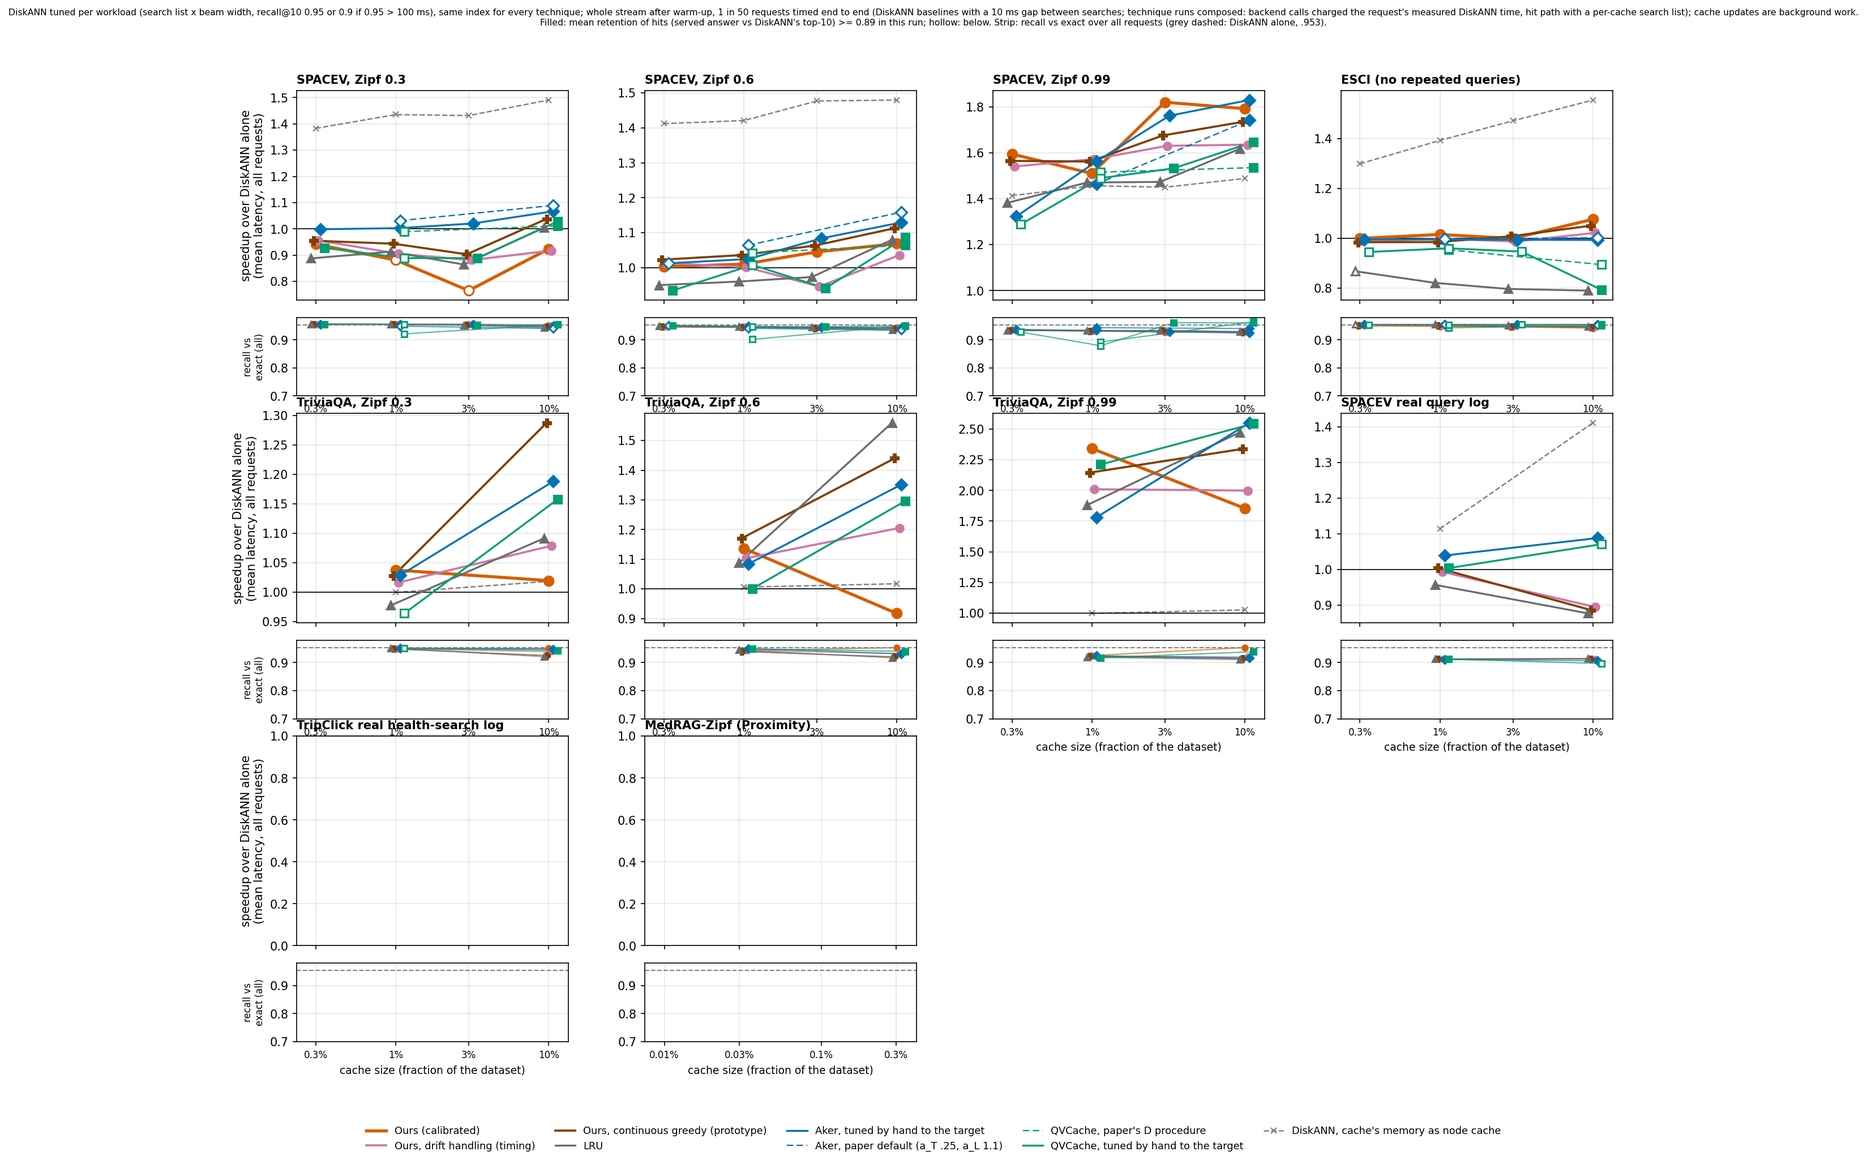
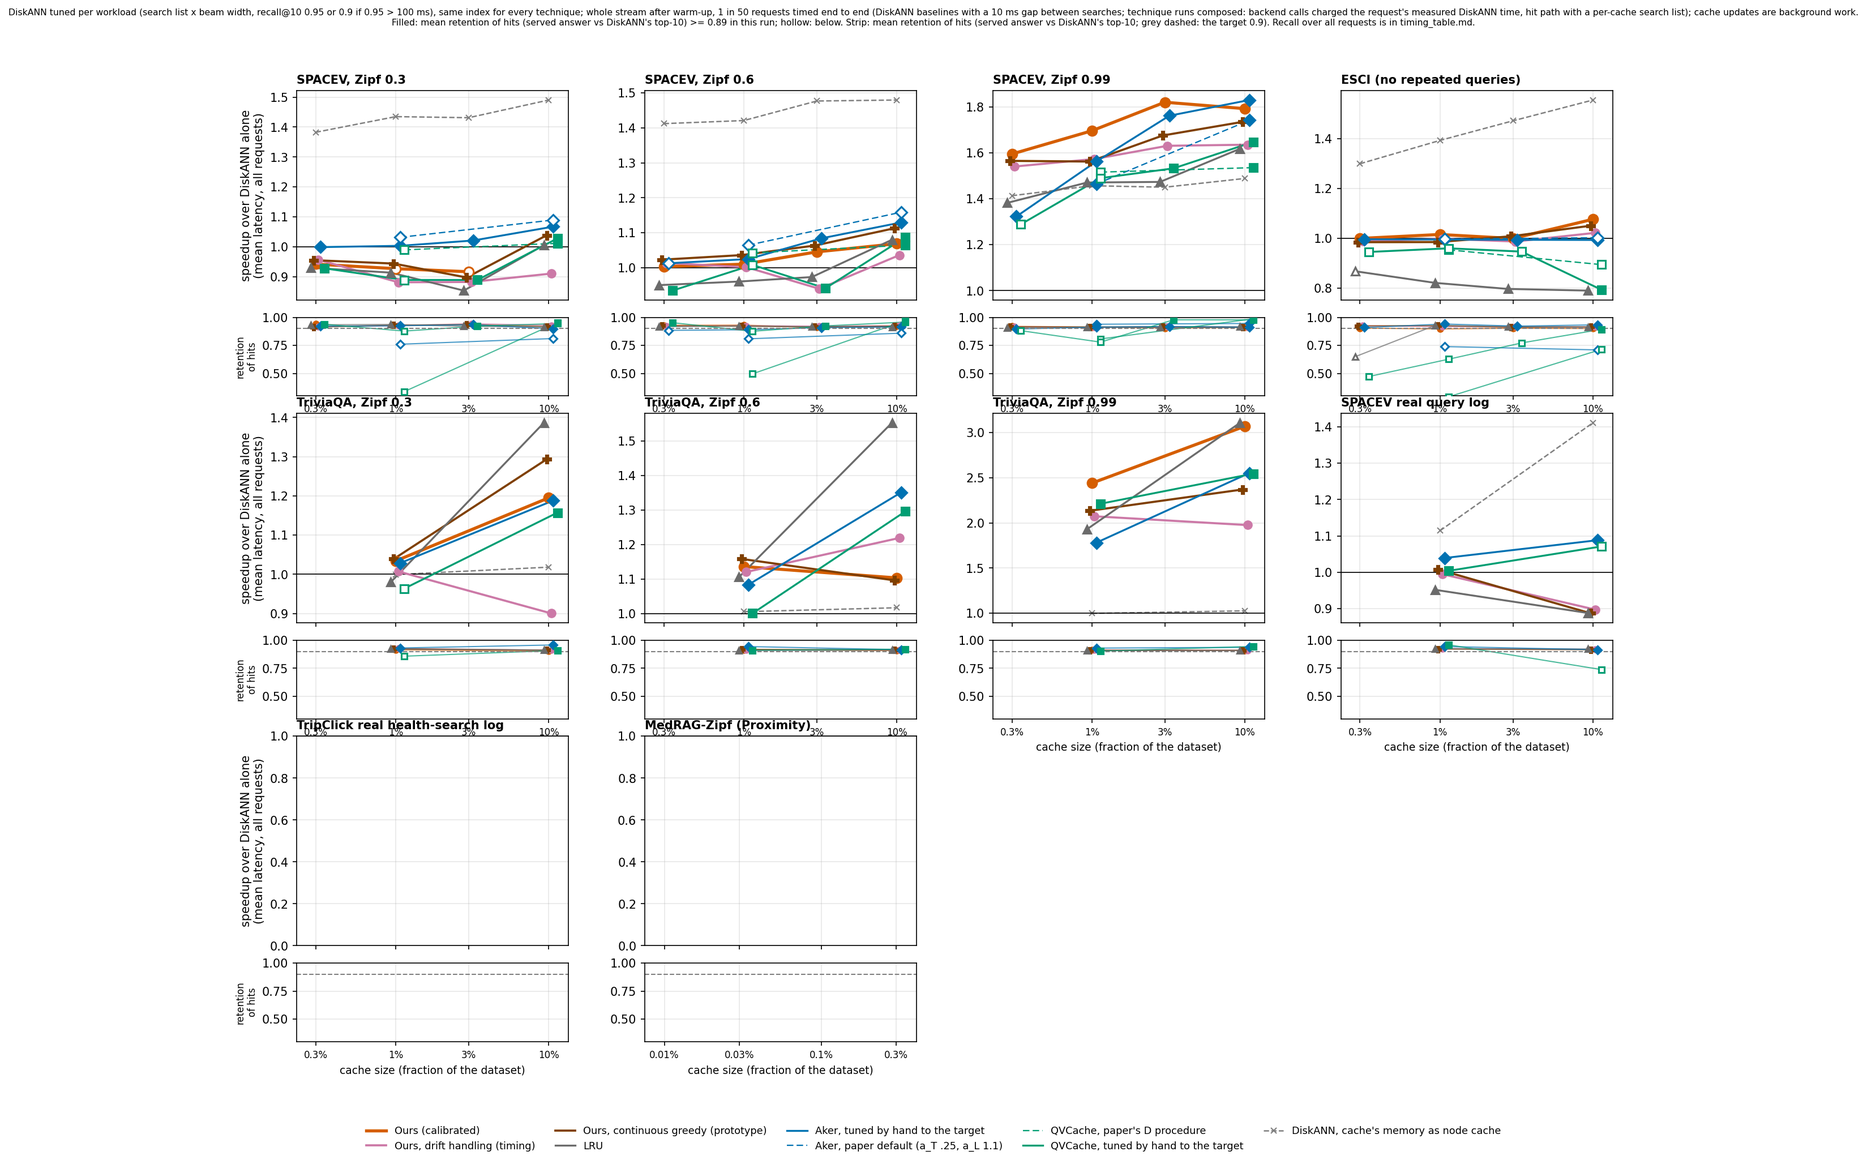
Timing plot: strip shows retention of hits vs the 0.9 target

diff --git a/simulations/approximate_hits/plot_timing.py b/simulations/approximate_hits/plot_timing.py
@@ -115,7 +115,7 @@ def main():
                 # target met: this run's own mean retention of hits (whole stream, real DiskANN)
                 rt = ret_of(r)
                 ok = rt is not None and rt >= T - TOL
-                pts.append((b * JITTER[hk], r["speedup"]["overall"], r["recall_vs_exact_all"], ok))
+                pts.append((b * JITTER[hk], r["speedup"]["overall"], rt if rt is not None else np.nan, ok))
                 if r.get("backend_mem"):
                     eq_pts.append((b, r["backend"]["mean_ms"] / r["backend_mem"]["mean_ms"]))
                 c = r["cache"]
@@ -148,11 +148,11 @@ def main():
                      loc="left", fontweight="bold")
         if j % ncol == 0:
             ax.set_ylabel("speedup over DiskANN alone\n(mean latency, all requests)")
-            st.set_ylabel("recall vs\nexact (all)", fontsize=8)
+            st.set_ylabel("retention\nof hits", fontsize=8)
         ax.grid(alpha=0.3)
         ax.tick_params(labelbottom=False)
-        st.axhline(0.953, color="grey", lw=1, ls="--")
-        st.set_ylim(0.70, 0.98)
+        st.axhline(0.9, color="grey", lw=1, ls="--")       # the target
+        st.set_ylim(0.30, 1.0)
         st.grid(alpha=0.3)
         st.set_xticks(bs)
         st.set_xticklabels([f"{100 * b:g}%" for b in bs], fontsize=8)
@@ -163,7 +163,7 @@ def main():
     fig.text(0.5, 0.955, "DiskANN tuned per workload (search list x beam width, recall@10 0.95 or 0.9 if 0.95 > 100 ms), same index for every technique; whole stream after "
              "warm-up, 1 in 50 requests timed end to end (DiskANN baselines with a 10 ms gap between searches; technique runs composed: backend calls charged the request's measured DiskANN time, hit path with a per-cache search list); cache updates are background work.\n"
              "Filled: mean retention of hits (served answer vs DiskANN's top-10) >= 0.89 in this run; hollow: below. "
-             "Strip: recall vs exact over all requests (grey dashed: DiskANN alone, .953).",
+             "Strip: mean retention of hits (served answer vs DiskANN's top-10; grey dashed: the target 0.9). Recall over all requests is in timing_table.md.",
              ha="center", fontsize=7.5)
     out = RES / "latest" / "timing.png"          # latest plots only (11-14)
     out.parent.mkdir(parents=True, exist_ok=True)

diff --git a/simulations/approximate_hits/results/latest/timing_table.md b/simulations/approximate_hits/results/latest/timing_table.md
@@ -1,21 +1,20 @@
 | trace | budget | technique | hit % | ret. hits | recall all | DiskANN ms | cache+DiskANN ms | hit ms | miss ms | p99 ms | DiskANN p99 | speedup | 1/(1-h) | env |
 |---|---|---|---|---|---|---|---|---|---|---|---|---|---|---|
 | Zipf 0.3 | 0.3% | Ours | 1.06 | 0.944 | 0.956 | 10.2 | 10.8 | 0.592 | 10.8 | 16.7 | 16 | 0.942 | 1.01 | contended |
-| Zipf 0.3 | 1% | Ours (cutoff lost 79k requests) | 0 | - | 0.956 | 10.2 | 11.5 | - | 11.5 | 17.5 | 16 | 0.882 | 1 | contended |
-| Zipf 0.3 | 3% | Ours (cutoff lost 79k requests) (cutoff lost 79k requests) | 0 | - | 0.956 | 10.2 | 13.3 | - | 13.3 | 19.1 | 16 | 0.765 | 1 | contended |
-| Zipf 0.3 | 10% | Ours (cutoff lost 79k requests) (cutoff lost 79k requests) | 12.1 | 0.922 | 0.95 | 10.2 | 11 | 1.92 | 12.4 | 18.3 | 16 | 0.924 | 1.14 | contended |
+| Zipf 0.3 | 1% | Ours (cutoff lost 79k requests) | 0 | - | 0.956 | 10.2 | 11 | - | 11 | 16.8 | 16 | 0.927 | 1 | contended |
+| Zipf 0.3 | 3% | Ours (cutoff lost 79k requests) (cutoff lost 79k requests) | 0 | - | 0.956 | 10.2 | 11.1 | - | 11.1 | 17 | 16 | 0.916 | 1 | contended |
 | Zipf 0.3 | 0.3% | Ours (drift handling) (cutoff lost 37k requests) | 0.988 | 0.919 | 0.956 | 10.2 | 10.6 | 0.453 | 10.7 | 16.5 | 16 | 0.956 | 1.01 | contended |
-| Zipf 0.3 | 1% | Ours (drift handling) (cutoff lost 37k requests) (cutoff lost 27k requests) | 2.28 | 0.92 | 0.955 | 10.2 | 11.2 | 2.39 | 11.4 | 17.3 | 16 | 0.906 | 1.02 | contended |
-| Zipf 0.3 | 3% | Ours (drift handling) (cutoff lost 37k requests) (cutoff lost 27k requests) (cutoff lost 35k requests) | 2.57 | 0.941 | 0.955 | 10.2 | 11.5 | 2.89 | 11.8 | 17.6 | 16 | 0.881 | 1.02 | contended |
-| Zipf 0.3 | 10% | Ours (drift handling) (cutoff lost 37k requests) (cutoff lost 27k requests) (cutoff lost 35k requests) | 11.8 | 0.923 | 0.951 | 10.2 | 11.1 | 2.77 | 12.4 | 18.1 | 16 | 0.918 | 1.12 | contended |
+| Zipf 0.3 | 1% | Ours (drift handling) (cutoff lost 37k requests) (cutoff lost 30k requests) | 2.12 | 0.926 | 0.955 | 10.2 | 11.5 | 2.34 | 11.7 | 17.6 | 16 | 0.881 | 1.02 | contended |
+| Zipf 0.3 | 3% | Ours (drift handling) (cutoff lost 37k requests) (cutoff lost 30k requests) (cutoff lost 11k requests) | 3.57 | 0.944 | 0.955 | 10.2 | 11.5 | 2.15 | 11.9 | 17.7 | 16 | 0.882 | 1.03 | contended |
+| Zipf 0.3 | 10% | Ours (drift handling) (cutoff lost 37k requests) (cutoff lost 30k requests) (cutoff lost 11k requests) | 11 | 0.93 | 0.952 | 10.2 | 11.2 | 3.05 | 12.3 | 18.1 | 16 | 0.91 | 1.11 | contended |
 | Zipf 0.3 | 0.3% | Ours (continuous greedy) (cutoff lost 39k requests) | 0.847 | 0.913 | 0.956 | 10.2 | 10.6 | 0.546 | 10.7 | 16.6 | 16 | 0.955 | 1.01 | contended |
 | Zipf 0.3 | 1% | Ours (continuous greedy) (cutoff lost 39k requests) (cutoff lost 29k requests) | 1.94 | 0.931 | 0.955 | 10.2 | 10.8 | 2.55 | 11 | 16.9 | 16 | 0.944 | 1.02 | contended |
-| Zipf 0.3 | 3% | Ours (continuous greedy) (cutoff lost 39k requests) (cutoff lost 29k requests) (cutoff lost 2k requests) | 6.55 | 0.932 | 0.953 | 10.2 | 11.2 | 2.23 | 12 | 18 | 16 | 0.903 | 1.06 | contended |
-| Zipf 0.3 | 10% | Ours (continuous greedy) (cutoff lost 39k requests) (cutoff lost 29k requests) (cutoff lost 2k requests) | 17 | 0.919 | 0.947 | 10.2 | 9.78 | 2.19 | 11.6 | 17.4 | 16 | 1.04 | 1.18 | contended |
-| Zipf 0.3 | 0.3% | LRU (cutoff lost 43k requests) | 0.672 | 0.933 | 0.956 | 10.2 | 11.4 | 1.36 | 11.5 | 17.3 | 16 | 0.888 | 1.01 | contended |
-| Zipf 0.3 | 1% | LRU (cutoff lost 43k requests) (cutoff lost 19k requests) | 2.32 | 0.937 | 0.955 | 10.2 | 11.1 | 1.57 | 11.3 | 17.2 | 16 | 0.913 | 1.02 | contended |
-| Zipf 0.3 | 3% | LRU (cutoff lost 43k requests) (cutoff lost 19k requests) (cutoff lost 3k requests) | 7.49 | 0.916 | 0.952 | 10.2 | 11.7 | 3.03 | 12.4 | 18.3 | 16 | 0.864 | 1.07 | contended |
-| Zipf 0.3 | 10% | LRU (cutoff lost 43k requests) (cutoff lost 19k requests) (cutoff lost 3k requests) | 21.9 | 0.915 | 0.944 | 10.2 | 10.1 | 2.45 | 12.2 | 17.8 | 16 | 1.01 | 1.24 | contended |
+| Zipf 0.3 | 3% | Ours (continuous greedy) (cutoff lost 39k requests) (cutoff lost 29k requests) (cutoff lost 16k requests) | 4.54 | 0.937 | 0.954 | 10.2 | 11.3 | 2.6 | 11.8 | 17.7 | 16 | 0.897 | 1.04 | contended |
+| Zipf 0.3 | 10% | Ours (continuous greedy) (cutoff lost 39k requests) (cutoff lost 29k requests) (cutoff lost 16k requests) | 17 | 0.919 | 0.947 | 10.2 | 9.78 | 2.19 | 11.6 | 17.4 | 16 | 1.04 | 1.18 | contended |
+| Zipf 0.3 | 0.3% | LRU (cutoff lost 45k requests) | 0.619 | 0.934 | 0.956 | 10.2 | 10.9 | 0.761 | 11 | 16.9 | 16 | 0.93 | 1.01 | contended |
+| Zipf 0.3 | 1% | LRU (cutoff lost 45k requests) (cutoff lost 19k requests) | 2.32 | 0.937 | 0.955 | 10.2 | 11.1 | 1.57 | 11.3 | 17.2 | 16 | 0.913 | 1.02 | contended |
+| Zipf 0.3 | 3% | LRU (cutoff lost 45k requests) (cutoff lost 19k requests) (cutoff lost 1k requests) | 7.45 | 0.921 | 0.952 | 10.2 | 11.9 | 3 | 12.6 | 18.4 | 16 | 0.853 | 1.07 | contended |
+| Zipf 0.3 | 10% | LRU (cutoff lost 45k requests) (cutoff lost 19k requests) (cutoff lost 1k requests) | 21.9 | 0.915 | 0.944 | 10.2 | 10.1 | 2.45 | 12.2 | 17.8 | 16 | 1.01 | 1.24 | contended |
 | Zipf 0.3 | 0.3% | Aker | 0.29 | 0.921 | 0.956 | 10.2 | 10.2 | 0.0239 | 10.2 | 16.1 | 16 | 0.999 | 1 | contended |
 | Zipf 0.3 | 1% | Aker | 0.886 | 0.926 | 0.955 | 10.2 | 10.1 | 0.0338 | 10.2 | 16.1 | 16 | 1 | 1.01 | contended |
 | Zipf 0.3 | 3% | Aker | 2.66 | 0.936 | 0.955 | 10.2 | 9.94 | 0.0366 | 10.2 | 16 | 16 | 1.02 | 1.03 | contended |
@@ -34,7 +33,7 @@
 | Zipf 0.6 | 10% | Ours | 20.5 | 0.923 | 0.942 | 9.61 | 8.99 | 1.09 | 11 | 14.6 | 13.6 | 1.07 | 1.26 | contended |
 | Zipf 0.6 | 0.3% | Ours (drift handling) | 9.08 | 0.923 | 0.947 | 9.61 | 9.48 | 1.68 | 10.2 | 14.1 | 13.6 | 1.01 | 1.09 | contended |
 | Zipf 0.6 | 1% | Ours (drift handling) | 11 | 0.925 | 0.947 | 9.61 | 9.6 | 1.58 | 10.4 | 14.3 | 13.6 | 1 | 1.11 | contended |
-| Zipf 0.6 | 3% | Ours (drift handling) | 13.4 | 0.927 | 0.946 | 9.61 | 10.2 | 2.49 | 11.3 | 15.1 | 13.6 | 0.946 | 1.14 | contended |
+| Zipf 0.6 | 3% | Ours (drift handling) | 13.4 | 0.923 | 0.946 | 9.61 | 10.2 | 2.27 | 11.4 | 15.2 | 13.6 | 0.939 | 1.14 | contended |
 | Zipf 0.6 | 10% | Ours (drift handling) | 19.9 | 0.926 | 0.943 | 9.61 | 9.28 | 2.35 | 11 | 14.7 | 13.6 | 1.04 | 1.22 | contended |
 | Zipf 0.6 | 0.3% | Ours (continuous greedy) | 11.3 | 0.925 | 0.946 | 9.61 | 9.4 | 1.1 | 10.4 | 14.2 | 13.6 | 1.02 | 1.11 | contended |
 | Zipf 0.6 | 1% | Ours (continuous greedy) | 15.1 | 0.921 | 0.944 | 9.61 | 9.28 | 1.63 | 10.6 | 14.4 | 13.6 | 1.04 | 1.16 | contended |
@@ -57,7 +56,7 @@
 | Zipf 0.6 | 3% | QVCache | 10.4 | 0.924 | 0.947 | 9.61 | 10.2 | 1.64 | 11.2 | 15.2 | 13.6 | 0.941 | 1.12 | contended |
 | Zipf 0.6 | 10% | QVCache | 10.6 | 0.958 | 0.95 | 9.61 | 8.84 | 0.248 | 9.87 | 13.7 | 13.6 | 1.09 | 1.12 | contended |
 | Zipf 0.99 | 0.3% | Ours | 45.4 | 0.92 | 0.936 | 9.53 | 5.98 | 0.665 | 10.5 | 14.9 | 14.3 | 1.59 | 1.83 | contended |
-| Zipf 0.99 | 1% | Ours | 48.5 | 0.912 | 0.932 | 9.53 | 6.31 | 1.32 | 11.2 | 15.4 | 14.3 | 1.51 | 1.94 | contended |
+| Zipf 0.99 | 1% | Ours | 48.6 | 0.914 | 0.933 | 9.53 | 5.62 | 0.655 | 10.5 | 14.9 | 14.3 | 1.7 | 1.94 | contended |
 | Zipf 0.99 | 3% | Ours | 53.6 | 0.905 | 0.927 | 9.53 | 5.24 | 0.844 | 10.7 | 15 | 14.3 | 1.82 | 2.15 | contended |
 | Zipf 0.99 | 10% | Ours | 57 | 0.91 | 0.928 | 9.53 | 5.32 | 1.08 | 11 | 15.2 | 14.3 | 1.79 | 2.33 | contended |
 | Zipf 0.99 | 0.3% | Ours (drift handling) | 45.5 | 0.917 | 0.935 | 9.53 | 6.19 | 1.4 | 10.3 | 14.7 | 14.3 | 1.54 | 1.69 | contended |
@@ -112,48 +111,48 @@
 | ESCI (no repeated queries) | 1% | QVCache | 0.268 | 0.628 | 0.954 | 8.46 | 8.81 | 0.264 | 8.84 | 12.4 | 12 | 0.96 | 1 | contended |
 | ESCI (no repeated queries) | 3% | QVCache | 0.406 | 0.773 | 0.954 | 8.46 | 8.94 | 0.402 | 8.96 | 12.5 | 12 | 0.947 | 1 | contended |
 | ESCI (no repeated queries) | 10% | QVCache | 0.691 | 0.894 | 0.954 | 8.46 | 10.7 | 1.95 | 10.7 | 14.6 | 12 | 0.794 | 1.01 | contended |
-| TriviaQA, Zipf 0.3 | 1% | Ours | 7 | 0.916 | 0.949 | 73.7 | 71 | 3.18 | 77.2 | 84.6 | 80.8 | 1.04 | 1.08 | contended |
-| TriviaQA, Zipf 0.3 | 10% | Ours | 16.7 | 0.952 | 0.951 | 73.7 | 72.3 | 11.8 | 86 | 94.7 | 80.8 | 1.02 | 1.2 | contended |
-| TriviaQA, Zipf 0.3 | 1% | Ours (drift handling) (cutoff lost 3k requests) | 6.46 | 0.918 | 0.949 | 73.7 | 72.5 | 9.65 | 77.5 | 84.9 | 80.8 | 1.02 | 1.06 | contended |
-| TriviaQA, Zipf 0.3 | 10% | Ours (drift handling) (cutoff lost 3k requests) | 27.3 | 0.916 | 0.939 | 73.7 | 68.3 | 20.8 | 87.6 | 96.8 | 80.8 | 1.08 | 1.33 | contended |
-| TriviaQA, Zipf 0.3 | 1% | Ours (continuous greedy) | 7.67 | 0.924 | 0.949 | 73.7 | 71.7 | 11.2 | 77 | 84.7 | 80.8 | 1.03 | 1.07 | contended |
-| TriviaQA, Zipf 0.3 | 10% | Ours (continuous greedy) | 47.3 | 0.913 | 0.925 | 73.7 | 57.2 | 22.2 | 91 | 114 | 80.8 | 1.29 | 1.74 | contended |
-| TriviaQA, Zipf 0.3 | 1% | LRU (cutoff lost 10k requests) | 3.16 | 0.922 | 0.952 | 73.7 | 75.4 | 8.61 | 77.9 | 86 | 80.8 | 0.977 | 1.03 | contended |
-| TriviaQA, Zipf 0.3 | 10% | LRU (cutoff lost 10k requests) | 54.8 | 0.91 | 0.921 | 73.7 | 67.5 | 35.1 | 108 | 141 | 80.8 | 1.09 | 1.97 | contended |
+| TriviaQA, Zipf 0.3 | 1% | Ours | 7 | 0.915 | 0.949 | 73.7 | 71.2 | 3.35 | 77.4 | 85 | 80.8 | 1.03 | 1.08 | contended |
+| TriviaQA, Zipf 0.3 | 10% | Ours | 31.1 | 0.902 | 0.932 | 73.7 | 61.7 | 11.4 | 85.8 | 94.2 | 80.8 | 1.19 | 1.45 | contended |
+| TriviaQA, Zipf 0.3 | 1% | Ours (drift handling) (cutoff lost 3k requests) | 5.68 | 0.926 | 0.95 | 73.7 | 73.1 | 7.1 | 77.5 | 85.2 | 80.8 | 1.01 | 1.05 | contended |
+| TriviaQA, Zipf 0.3 | 10% | Ours (drift handling) (cutoff lost 3k requests) | 29.2 | 0.911 | 0.937 | 73.7 | 81.8 | 34.6 | 103 | 116 | 80.8 | 0.9 | 1.36 | contended |
+| TriviaQA, Zipf 0.3 | 1% | Ours (continuous greedy) | 8.3 | 0.924 | 0.949 | 73.7 | 70.9 | 9.79 | 77 | 84.6 | 80.8 | 1.04 | 1.08 | contended |
+| TriviaQA, Zipf 0.3 | 10% | Ours (continuous greedy) | 48.5 | 0.912 | 0.924 | 73.7 | 57 | 22.7 | 90.7 | 110 | 80.8 | 1.29 | 1.77 | contended |
+| TriviaQA, Zipf 0.3 | 1% | LRU (cutoff lost 15k requests) | 2.98 | 0.921 | 0.952 | 73.7 | 75.2 | 7.36 | 77.7 | 85.9 | 80.8 | 0.98 | 1.03 | contended |
+| TriviaQA, Zipf 0.3 | 10% | LRU (cutoff lost 15k requests) | 52.9 | 0.912 | 0.922 | 73.7 | 53.1 | 21.6 | 90.2 | 107 | 80.8 | 1.39 | 1.91 | contended |
 | TriviaQA, Zipf 0.3 | 1% | Aker | 2.8 | 0.931 | 0.952 | 73.7 | 71.6 | 0.0411 | 73.7 | 80.9 | 80.8 | 1.03 | 1.03 | contended |
 | TriviaQA, Zipf 0.3 | 10% | Aker | 15.3 | 0.958 | 0.948 | 73.7 | 62 | 0.034 | 73.8 | 80.9 | 80.8 | 1.19 | 1.18 | contended |
 | TriviaQA, Zipf 0.3 | 1% | QVCache | 2.67 | 0.858 | 0.951 | 73.7 | 76.4 | 4.39 | 78.3 | 86.1 | 80.8 | 0.964 | 1.03 | contended |
 | TriviaQA, Zipf 0.3 | 10% | QVCache | 15.6 | 0.909 | 0.943 | 73.7 | 63.7 | 0.834 | 74.6 | 81.9 | 80.8 | 1.16 | 1.18 | contended |
-| TriviaQA, Zipf 0.6 | 1% | Ours | 16.5 | 0.915 | 0.943 | 74 | 65.1 | 3.1 | 77.4 | 84.8 | 81.6 | 1.14 | 1.2 | contended |
-| TriviaQA, Zipf 0.6 | 10% | Ours | 7.67 | 0.968 | 0.953 | 74 | 80.7 | 11.6 | 86 | 95.9 | 81.6 | 0.917 | 1.08 | contended |
-| TriviaQA, Zipf 0.6 | 1% | Ours (drift handling) | 16 | 0.916 | 0.943 | 74 | 67.1 | 12.3 | 77.6 | 85.3 | 81.6 | 1.1 | 1.17 | contended |
-| TriviaQA, Zipf 0.6 | 10% | Ours (drift handling) (cutoff lost 1k requests) | 38.8 | 0.913 | 0.933 | 74 | 61.4 | 20.5 | 87.4 | 96.7 | 81.6 | 1.21 | 1.53 | contended |
-| TriviaQA, Zipf 0.6 | 1% | Ours (continuous greedy) | 21.2 | 0.913 | 0.94 | 74 | 63.2 | 10.6 | 77.5 | 86.3 | 81.6 | 1.17 | 1.24 | contended |
-| TriviaQA, Zipf 0.6 | 10% | Ours (continuous greedy) | 57.3 | 0.912 | 0.92 | 74 | 51.4 | 21.4 | 91.8 | 113 | 81.6 | 1.44 | 2.06 | contended |
-| TriviaQA, Zipf 0.6 | 1% | LRU | 14.2 | 0.915 | 0.944 | 74 | 68 | 12.3 | 78.3 | 86.9 | 81.6 | 1.09 | 1.15 | contended |
-| TriviaQA, Zipf 0.6 | 10% | LRU | 61.5 | 0.91 | 0.917 | 74 | 47.4 | 21.1 | 91.7 | 109 | 81.6 | 1.56 | 2.23 | contended |
+| TriviaQA, Zipf 0.6 | 1% | Ours | 16.4 | 0.916 | 0.943 | 74 | 65.1 | 3.12 | 77.4 | 84.9 | 81.6 | 1.14 | 1.2 | contended |
+| TriviaQA, Zipf 0.6 | 10% | Ours | 41.9 | 0.908 | 0.93 | 74 | 67 | 23.5 | 98.2 | 109 | 81.6 | 1.1 | 1.72 | contended |
+| TriviaQA, Zipf 0.6 | 1% | Ours (drift handling) | 17 | 0.912 | 0.942 | 74 | 66 | 9.8 | 77.6 | 85.1 | 81.6 | 1.12 | 1.18 | contended |
+| TriviaQA, Zipf 0.6 | 10% | Ours (drift handling) | 39.2 | 0.914 | 0.933 | 74 | 60.7 | 19.8 | 87.4 | 96.4 | 81.6 | 1.22 | 1.54 | contended |
+| TriviaQA, Zipf 0.6 | 1% | Ours (continuous greedy) | 19.9 | 0.919 | 0.942 | 74 | 63.9 | 12.1 | 77.3 | 85.1 | 81.6 | 1.16 | 1.22 | contended |
+| TriviaQA, Zipf 0.6 | 10% | Ours (continuous greedy) | 57.8 | 0.914 | 0.924 | 74 | 67.5 | 36.8 | 109 | 145 | 81.6 | 1.1 | 2.08 | contended |
+| TriviaQA, Zipf 0.6 | 1% | LRU | 14.8 | 0.909 | 0.943 | 74 | 66.9 | 9.32 | 78.2 | 87 | 81.6 | 1.11 | 1.15 | contended |
+| TriviaQA, Zipf 0.6 | 10% | LRU | 60.9 | 0.912 | 0.919 | 74 | 47.7 | 21 | 90.5 | 110 | 81.6 | 1.55 | 2.21 | contended |
 | TriviaQA, Zipf 0.6 | 1% | Aker | 6.53 | 0.944 | 0.949 | 74 | 68.3 | 0.0284 | 73.3 | 81.6 | 81.6 | 1.08 | 1.07 | quiet |
 | TriviaQA, Zipf 0.6 | 10% | Aker | 27.1 | 0.915 | 0.932 | 74 | 54.8 | 0.0357 | 74 | 80.7 | 81.6 | 1.35 | 1.37 | contended |
 | TriviaQA, Zipf 0.6 | 1% | QVCache | 6.36 | 0.911 | 0.949 | 74 | 73.9 | 3.32 | 78.3 | 87 | 81.6 | 1 | 1.07 | quiet |
 | TriviaQA, Zipf 0.6 | 10% | QVCache | 24.6 | 0.921 | 0.94 | 74 | 57.1 | 0.84 | 74.8 | 81.8 | 81.6 | 1.3 | 1.33 | contended |
-| TriviaQA, Zipf 0.99 | 1% | Ours | 59.9 | 0.915 | 0.925 | 74.5 | 31.8 | 3.1 | 78.1 | 84.3 | 83.5 | 2.34 | 2.49 | contended |
-| TriviaQA, Zipf 0.99 | 10% | Ours | 59.5 | 0.956 | 0.953 | 74.5 | 40.2 | 11.5 | 86.5 | 94.9 | 83.5 | 1.85 | 2.47 | contended |
-| TriviaQA, Zipf 0.99 | 1% | Ours (drift handling) | 60.5 | 0.91 | 0.922 | 74.5 | 37.1 | 12.2 | 78.2 | 84.8 | 83.5 | 2.01 | 2.19 | contended |
-| TriviaQA, Zipf 0.99 | 10% | Ours (drift handling) | 73.1 | 0.912 | 0.92 | 74.5 | 37.3 | 20.2 | 87.9 | 96.1 | 83.5 | 2 | 2.91 | contended |
-| TriviaQA, Zipf 0.99 | 1% | Ours (continuous greedy) | 62.7 | 0.914 | 0.923 | 74.5 | 34.7 | 10.7 | 78.1 | 85.4 | 83.5 | 2.15 | 2.29 | contended |
-| TriviaQA, Zipf 0.99 | 10% | Ours (continuous greedy) | 85.4 | 0.915 | 0.914 | 74.5 | 31.8 | 21.9 | 90.8 | 100 | 83.5 | 2.34 | 4.3 | contended |
-| TriviaQA, Zipf 0.99 | 1% | LRU | 57.8 | 0.905 | 0.919 | 74.5 | 39.6 | 12.1 | 78.9 | 86.2 | 83.5 | 1.88 | 2.08 | contended |
-| TriviaQA, Zipf 0.99 | 10% | LRU | 86.7 | 0.911 | 0.911 | 74.5 | 30.1 | 20.9 | 90 | 97.8 | 83.5 | 2.47 | 4.52 | contended |
+| TriviaQA, Zipf 0.99 | 1% | Ours | 59.9 | 0.912 | 0.923 | 74.5 | 30.5 | 2.05 | 76.9 | 83.2 | 83.5 | 2.44 | 2.49 | contended |
+| TriviaQA, Zipf 0.99 | 10% | Ours | 73.6 | 0.908 | 0.913 | 74.5 | 24.3 | 5.61 | 80.5 | 87.1 | 83.5 | 3.07 | 3.78 | contended |
+| TriviaQA, Zipf 0.99 | 1% | Ours (drift handling) | 59.9 | 0.912 | 0.922 | 74.5 | 35.9 | 10.8 | 77.1 | 84.4 | 83.5 | 2.07 | 2.16 | contended |
+| TriviaQA, Zipf 0.99 | 10% | Ours (drift handling) | 74.1 | 0.911 | 0.919 | 74.5 | 37.7 | 21.5 | 87.7 | 95.5 | 83.5 | 1.98 | 2.99 | contended |
+| TriviaQA, Zipf 0.99 | 1% | Ours (continuous greedy) | 63.5 | 0.909 | 0.919 | 74.5 | 34.9 | 11.5 | 78 | 84.9 | 83.5 | 2.13 | 2.33 | contended |
+| TriviaQA, Zipf 0.99 | 10% | Ours (continuous greedy) | 85.8 | 0.91 | 0.91 | 74.5 | 31.4 | 22.1 | 90.2 | 99.6 | 83.5 | 2.37 | 4.35 | contended |
+| TriviaQA, Zipf 0.99 | 1% | LRU | 57.6 | 0.909 | 0.922 | 74.5 | 38.6 | 10.4 | 78.9 | 86.5 | 83.5 | 1.93 | 2.07 | contended |
+| TriviaQA, Zipf 0.99 | 10% | LRU | 86 | 0.908 | 0.904 | 74.5 | 24 | 14.7 | 81.9 | 87.9 | 83.5 | 3.11 | 4.39 | contended |
 | TriviaQA, Zipf 0.99 | 1% | Aker | 43.2 | 0.93 | 0.925 | 74.5 | 41.8 | 0.0346 | 74.6 | 81.9 | 83.5 | 1.78 | 1.76 | contended |
 | TriviaQA, Zipf 0.99 | 10% | Aker | 59.2 | 0.937 | 0.918 | 74.5 | 29.2 | 0.0273 | 74.6 | 81.1 | 83.5 | 2.55 | 2.45 | contended |
 | TriviaQA, Zipf 0.99 | 1% | QVCache | 59.4 | 0.903 | 0.918 | 74.5 | 33.7 | 4.97 | 79.7 | 86.8 | 83.5 | 2.21 | 2.46 | contended |
 | TriviaQA, Zipf 0.99 | 10% | QVCache | 59.7 | 0.945 | 0.939 | 74.5 | 29.3 | 0.814 | 75.4 | 81.6 | 83.5 | 2.55 | 2.48 | contended |
-| SPACEV real query log | 1% | Ours (drift handling) (cutoff lost 39k requests) | 2.55 | 0.934 | 0.913 | 64.3 | 64.8 | 12.5 | 66.1 | 78.5 | 77.6 | 0.993 | 1.02 | contended |
-| SPACEV real query log | 10% | Ours (drift handling) (cutoff lost 39k requests) (cutoff lost 30k requests) | 4.29 | 0.915 | 0.914 | 64.3 | 71.9 | 17.7 | 74.2 | 86.5 | 77.6 | 0.895 | 1.04 | contended |
-| SPACEV real query log | 1% | Ours (continuous greedy) (cutoff lost 20k requests) | 4.09 | 0.922 | 0.913 | 64.3 | 64.1 | 11.8 | 66.1 | 78.7 | 77.6 | 1 | 1.04 | contended |
-| SPACEV real query log | 10% | Ours (continuous greedy) (cutoff lost 20k requests) (cutoff lost 45k requests) | 3.51 | 0.918 | 0.914 | 64.3 | 72.6 | 17.5 | 74.5 | 89.6 | 77.6 | 0.887 | 1.03 | contended |
-| SPACEV real query log | 1% | LRU (cutoff lost 27k requests) | 2.56 | 0.932 | 0.913 | 64.3 | 67.2 | 11.6 | 68.8 | 110 | 77.6 | 0.957 | 1.02 | contended |
-| SPACEV real query log | 10% | LRU (cutoff lost 27k requests) (cutoff lost 16k requests) | 6.35 | 0.921 | 0.914 | 64.3 | 73.3 | 24.7 | 76.8 | 105 | 77.6 | 0.877 | 1.06 | contended |
+| SPACEV real query log | 1% | Ours (drift handling) (cutoff lost 29k requests) | 3.09 | 0.925 | 0.913 | 64.3 | 64.7 | 9.48 | 66.3 | 78.8 | 77.6 | 0.995 | 1.03 | contended |
+| SPACEV real query log | 10% | Ours (drift handling) (cutoff lost 29k requests) (cutoff lost 35k requests) | 3.68 | 0.919 | 0.914 | 64.3 | 71.7 | 12.9 | 73.7 | 86.7 | 77.6 | 0.897 | 1.03 | contended |
+| SPACEV real query log | 1% | Ours (continuous greedy) (cutoff lost 24k requests) | 4.27 | 0.921 | 0.913 | 64.3 | 63.8 | 10.7 | 66 | 78.2 | 77.6 | 1.01 | 1.04 | contended |
+| SPACEV real query log | 10% | Ours (continuous greedy) (cutoff lost 24k requests) (cutoff lost 43k requests) | 3.93 | 0.915 | 0.914 | 64.3 | 72.5 | 18.3 | 74.4 | 88.2 | 77.6 | 0.887 | 1.04 | contended |
+| SPACEV real query log | 1% | LRU (cutoff lost 29k requests) | 2.62 | 0.925 | 0.913 | 64.3 | 67.6 | 11.2 | 69.3 | 119 | 77.6 | 0.952 | 1.02 | contended |
+| SPACEV real query log | 10% | LRU (cutoff lost 29k requests) (cutoff lost 15k requests) | 6.14 | 0.922 | 0.915 | 64.3 | 72.4 | 19.4 | 75.9 | 102 | 77.6 | 0.888 | 1.06 | contended |
 | SPACEV real query log | 1% | Aker | 3.25 | 0.944 | 0.911 | 64.3 | 61.9 | 0.0215 | 64.3 | 76.7 | 77.6 | 1.04 | 1.03 | contended |
 | SPACEV real query log | 10% | Aker | 8.25 | 0.915 | 0.907 | 64.3 | 59.1 | 0.0233 | 64.3 | 76.3 | 77.6 | 1.09 | 1.09 | contended |
 | SPACEV real query log | 1% | QVCache | 2.39 | 0.959 | 0.913 | 64.3 | 64.1 | 1.44 | 65.7 | 79 | 77.6 | 1 | 1.02 | contended |
